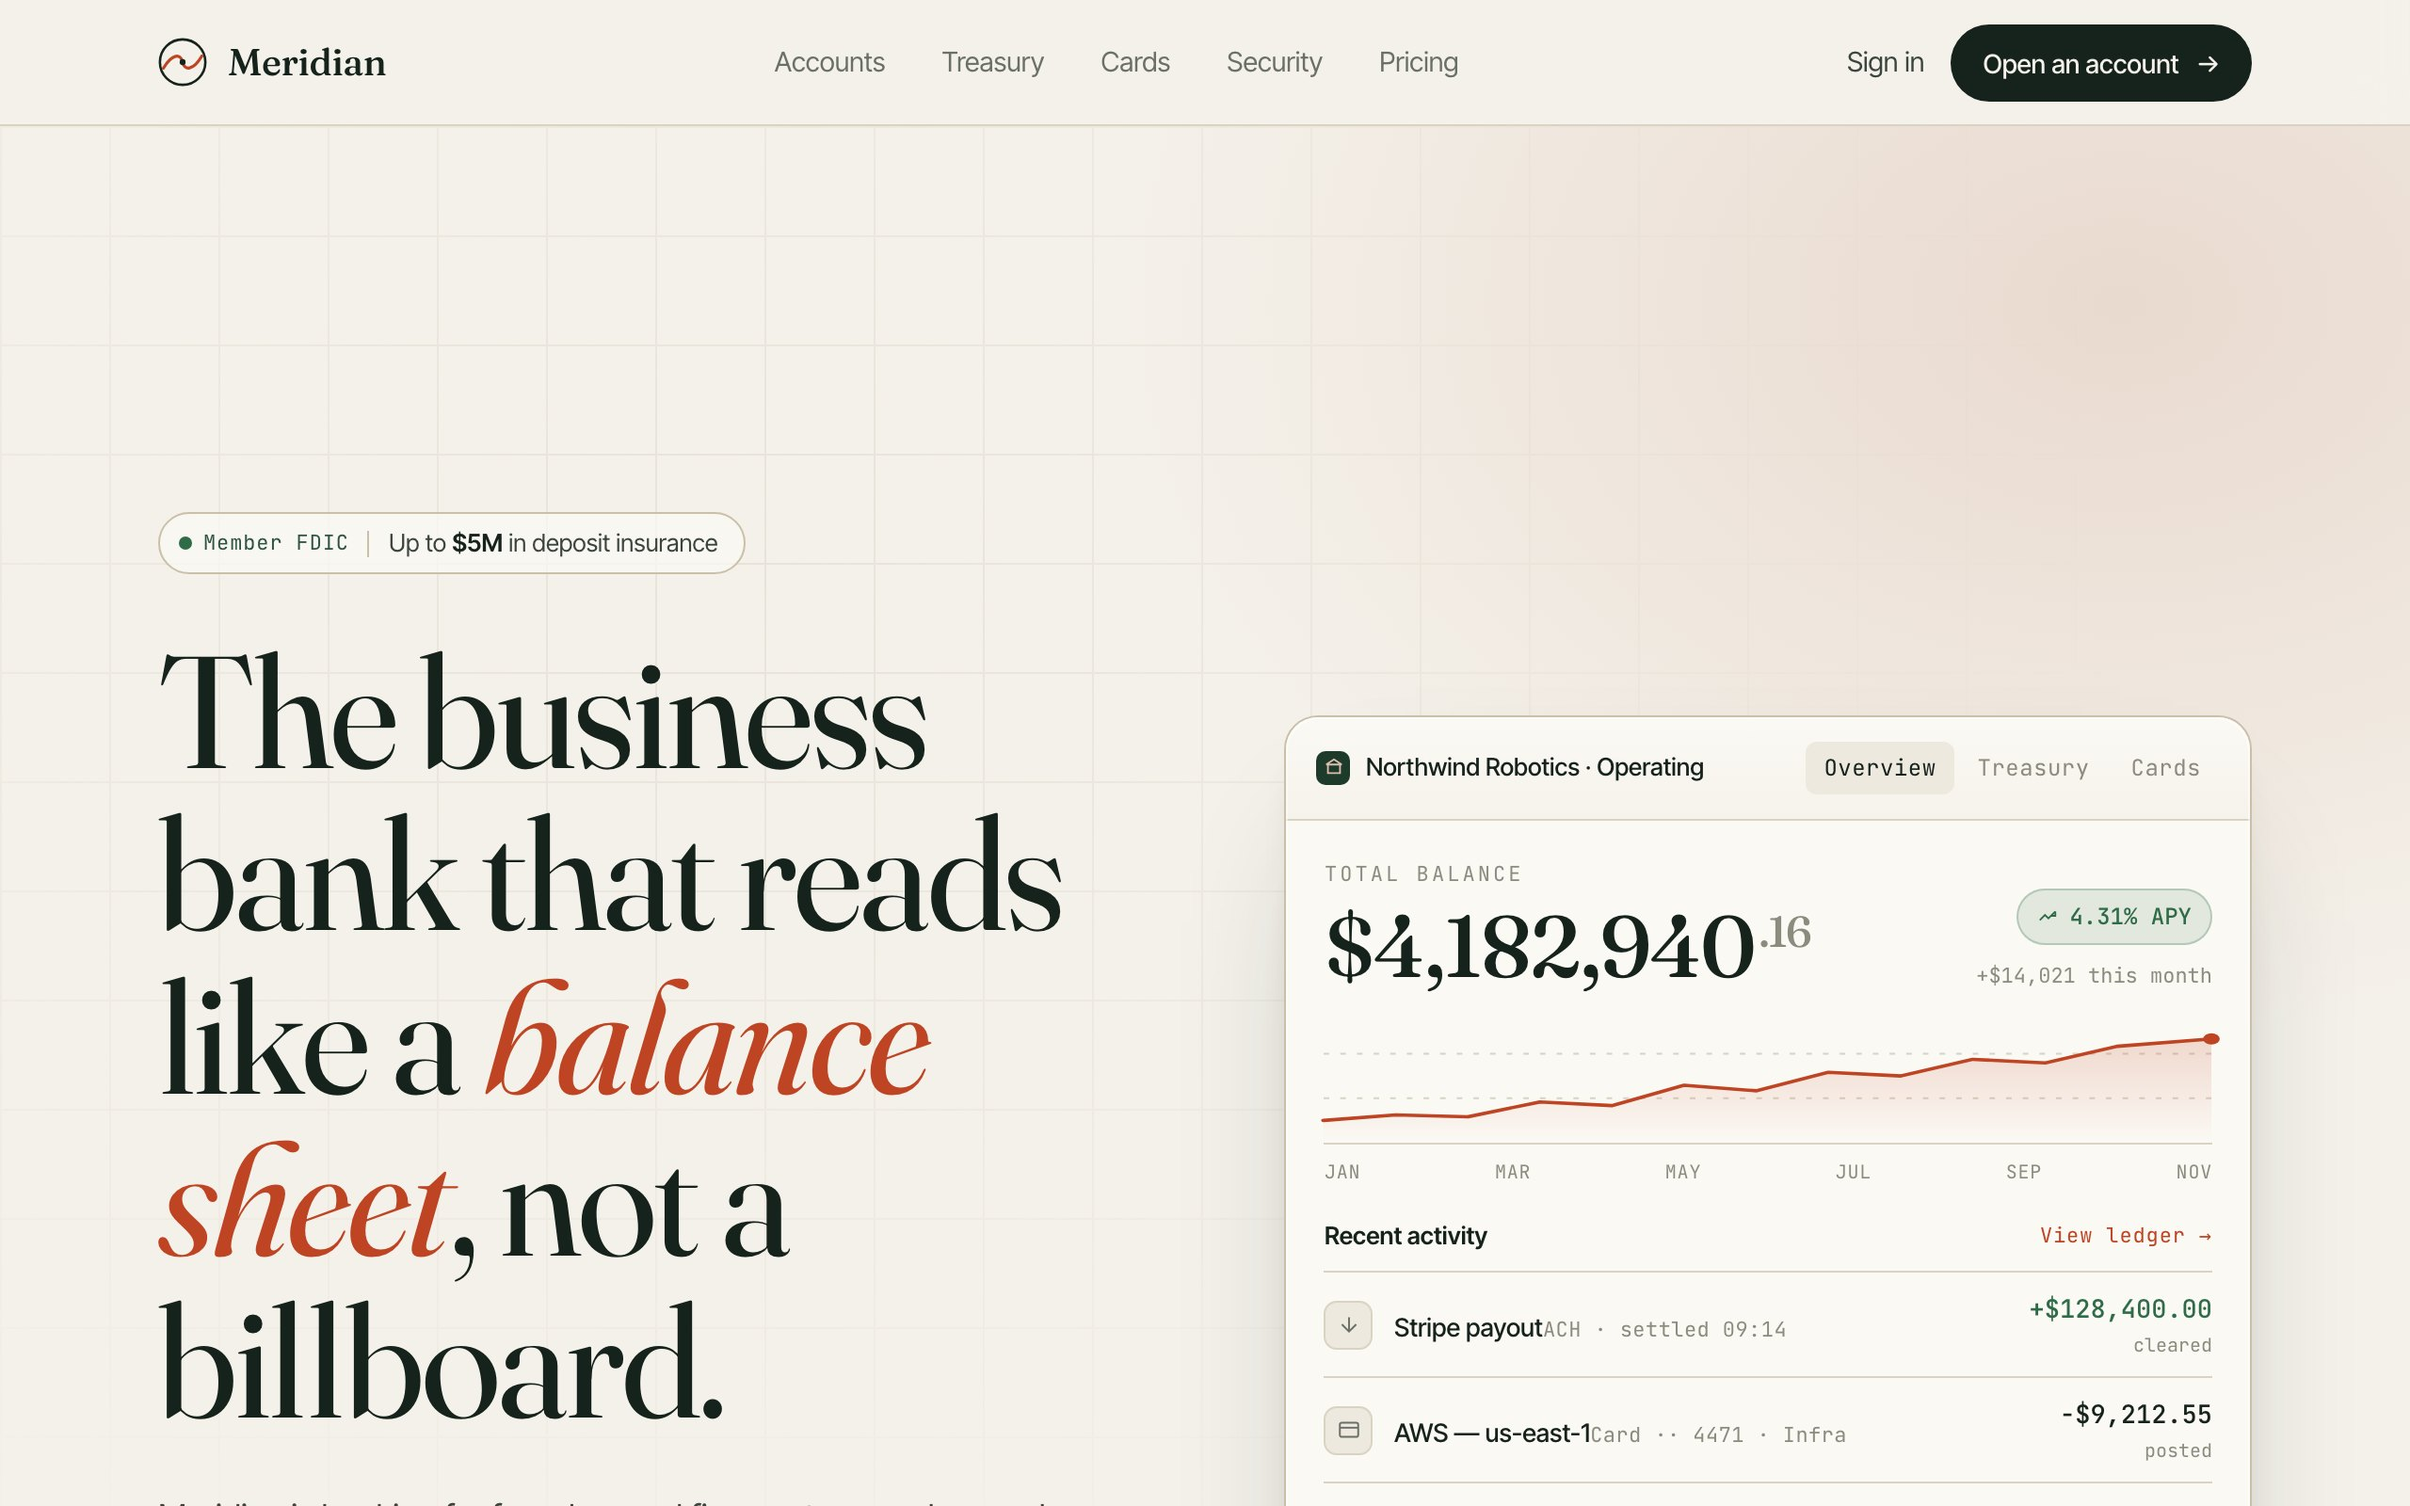
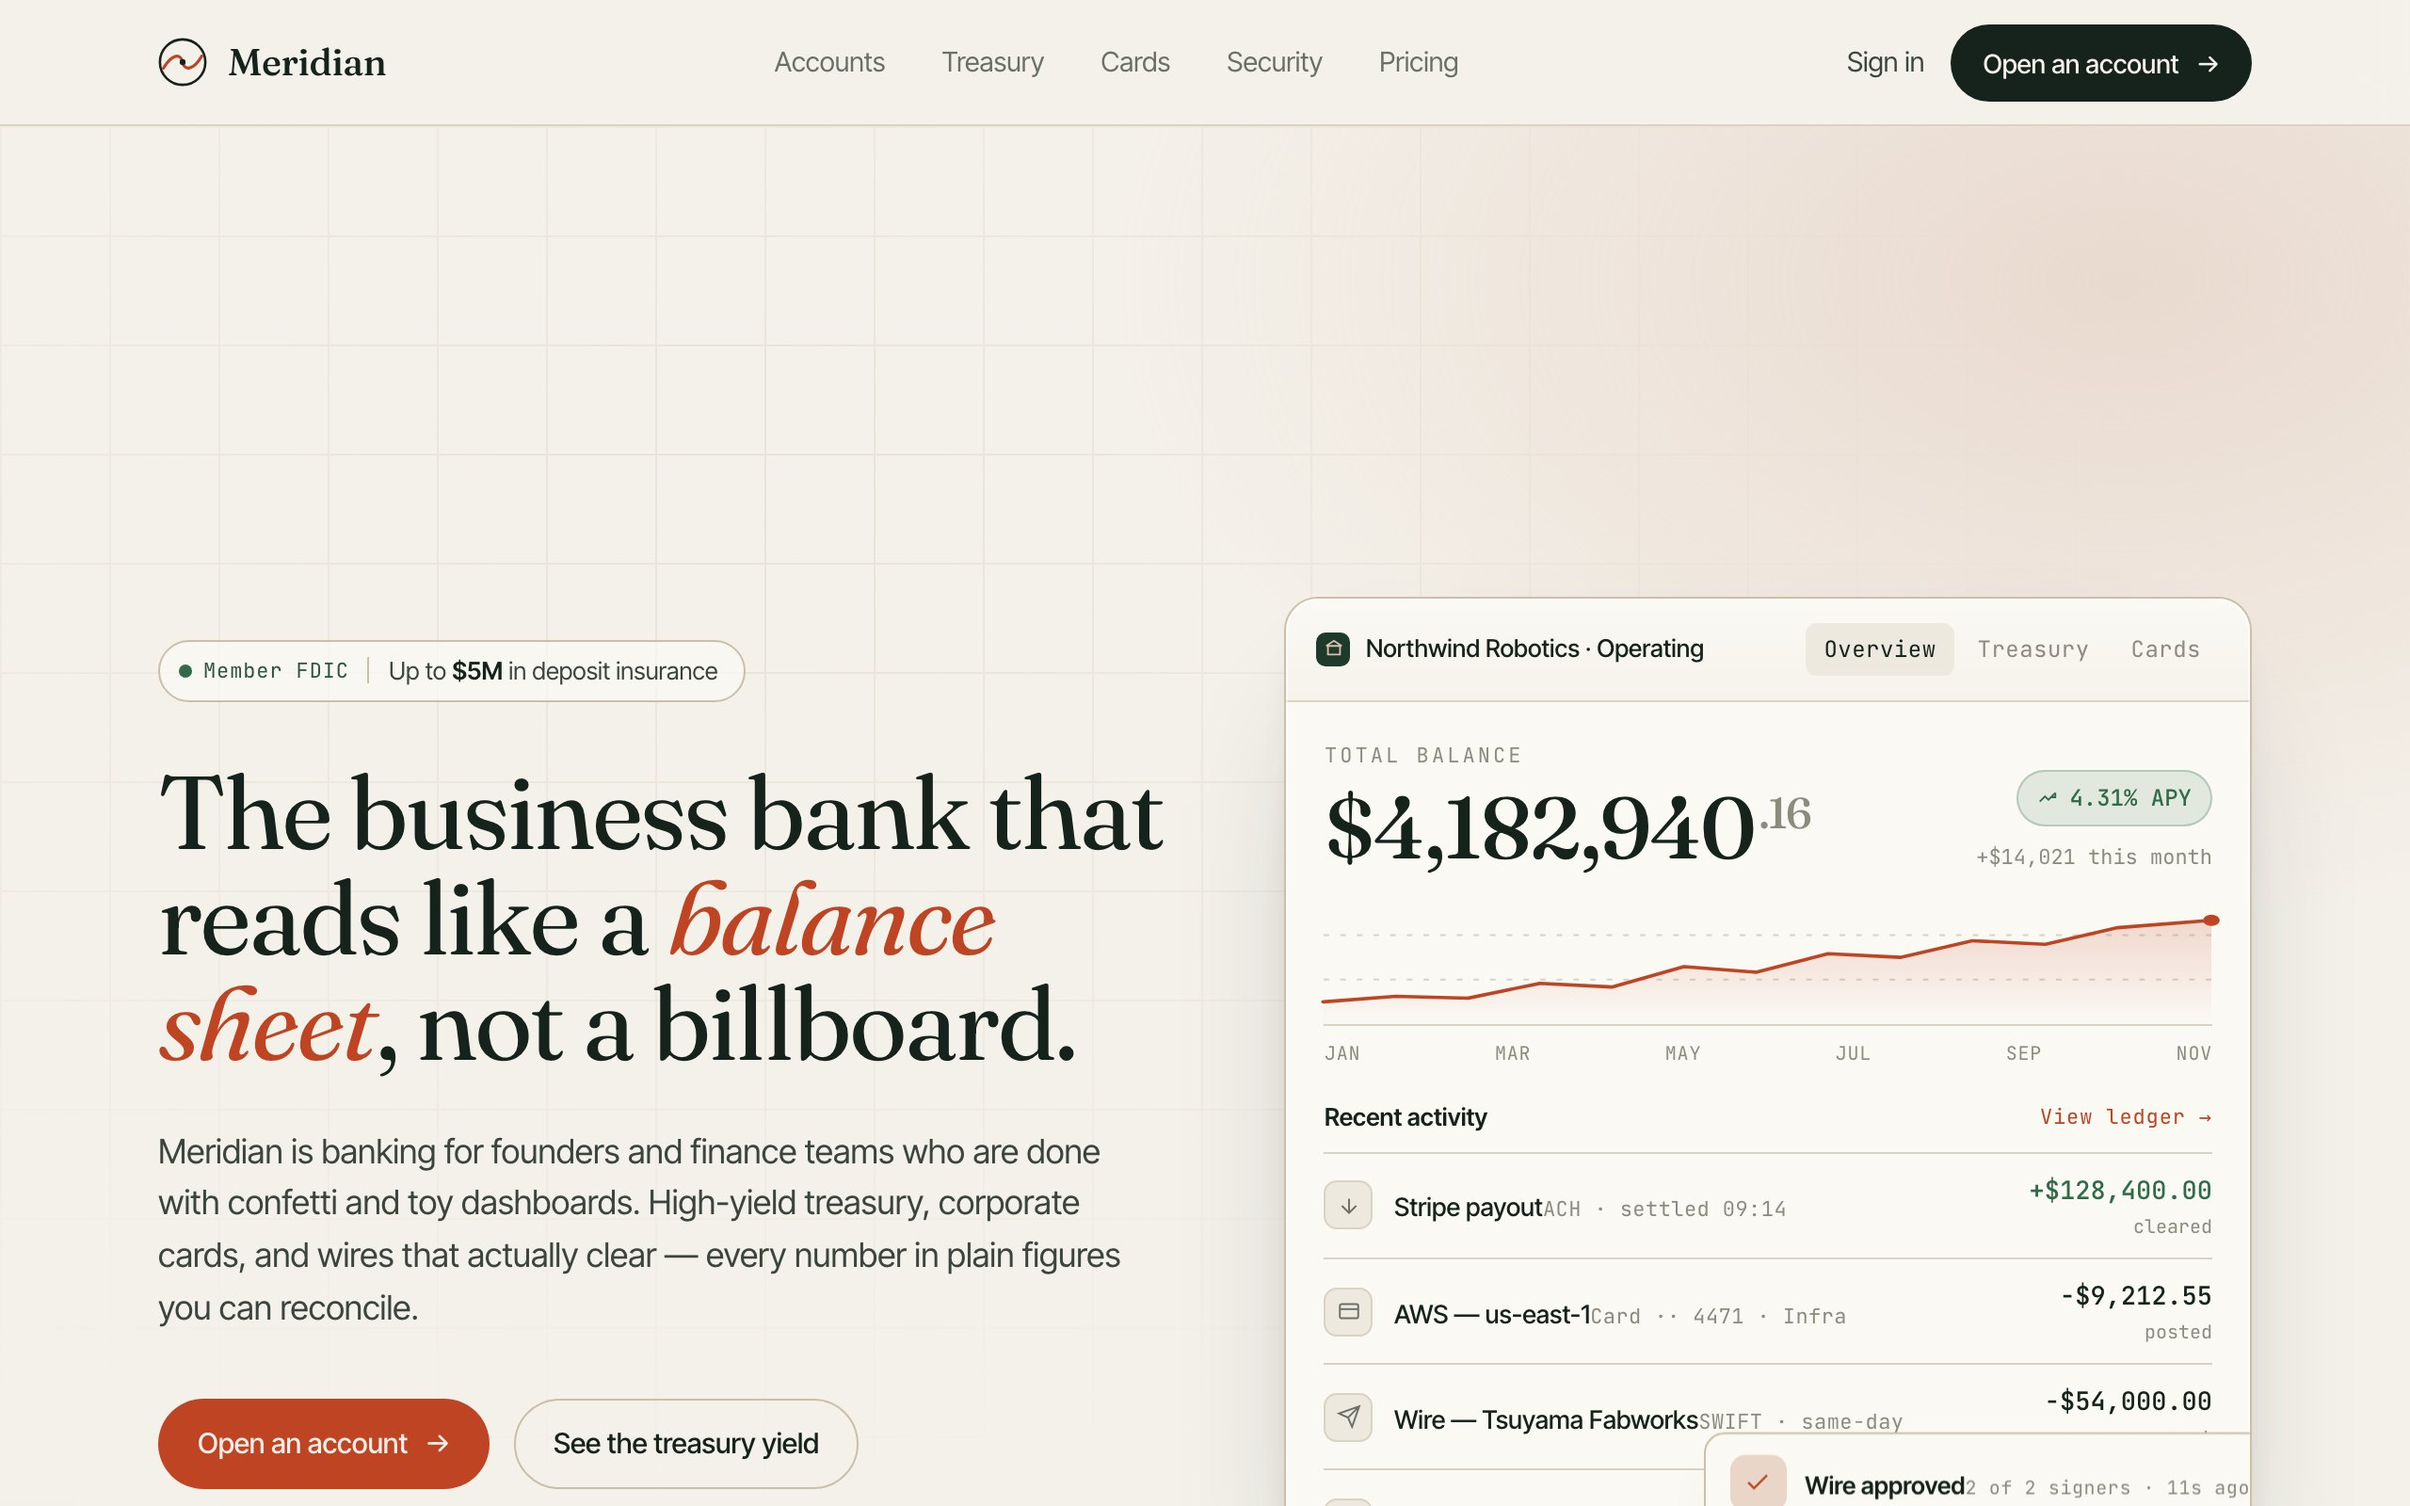
feat: bake hero-fits-viewport guidance into MCP + fix Meridian hero
MCP: add HERO_GUIDANCE to SERVER_INSTRUCTIONS + recommend() output so any
agent building with Inspo composes the hero to fit the first viewport
(~100svh / 1280x800) instead of overflowing it with oversized type.
Meridian: center the hero in 100svh and shrink the headline (was
clamp(...,88px) at 13ch = 5 cut-off lines) so the whole hero fits the
fold while keeping the design intact.

diff --git a/apps/mcp/src/tools.ts b/apps/mcp/src/tools.ts
@@ -70,6 +70,14 @@ import { searchScreens } from "./search.js";
 // study() was moved to @inspo/shared so the web playground can call
 // it without depending on the MCP-SDK side of @inspo/mcp.
 
+/** Guidance every Inspo consumer should honour when composing a page's
+ *  hero. Real production sites compose their first screen to the fold;
+ *  agents tend to overflow it with oversized type, so the hero (and its
+ *  thumbnail) reads as cut-off and unfinished. Surfaced in the server
+ *  instructions + recommend() so it reaches any agent building a page. */
+const HERO_GUIDANCE =
+  "Compose the hero to fit the FIRST VIEWPORT (~1280×800, i.e. min-height:100svh): the nav, eyebrow, headline, supporting line, primary CTA, and any hero visual/product mock must be visually COMPLETE above the fold — nothing important cut off. Size display type to land in 2–3 balanced lines within that height; never let an oversized wordmark or heading eat the viewport (the single most common failure). Lead with modest top spacing, not a tall empty gap. Study how the exemplars balance headline against visual inside their own first screen and match that restraint.";
+
 export function registerTools(server: McpServer) {
   /* ────────────── search_screens ────────────── */
   server.registerTool(
@@ -911,10 +919,11 @@ export function registerTools(server: McpServer) {
           exemplars: exemplarsFmt,
           referenceComponents: referencePicks,
           paletteSuggestion: palette,
+          heroGuidance: HERO_GUIDANCE,
           tip:
             referencePicks.length > 0
-              ? "Read the referenceComponents source(s) for the canonical structure that embodies this macrostructure. Study the inline exemplar thumbnails for palette + type + density choices specific to your brief."
-              : "No canonical reference matched the picked macrostructure. Study the inline exemplar thumbnails and write the page shape by hand.",
+              ? "Read the referenceComponents source(s) for the canonical structure that embodies this macrostructure. Study the inline exemplar thumbnails for palette + type + density choices specific to your brief. Then honour heroGuidance — compose the hero to fit the first viewport."
+              : "No canonical reference matched the picked macrostructure. Study the inline exemplar thumbnails and write the page shape by hand. Honour heroGuidance — compose the hero to fit the first viewport.",
         },
         exemplarsFmt.map((r) => r.thumb),
       );
@@ -967,4 +976,6 @@ export const SERVER_INSTRUCTIONS = [
   "If the user is following the Hallmark design skill, call",
   "`find_examples_for_macrostructure` at the macrostructure-pick step",
   "to get exemplars of e.g. 'Bento Grid' or 'Specimen'.",
+  "",
+  "Whenever you build a page, honour this hero rule: " + HERO_GUIDANCE,
 ].join(" ");

diff --git a/apps/web/public/examples/meridian-bank/index.html b/apps/web/public/examples/meridian-bank/index.html
@@ -141,8 +141,8 @@
     -webkit-mask-image:radial-gradient(80% 70% at 30% 20%, #000, transparent 75%);
     mask-image:radial-gradient(80% 70% at 30% 20%, #000, transparent 75%);
   }
-  .hero-inner{position:relative;z-index:1;display:grid;grid-template-columns:1.02fr 0.98fr;gap:clamp(36px,5vw,72px);align-items:center;padding-top:clamp(56px,7vw,92px);padding-bottom:clamp(64px,8vw,104px)}
-  @media (max-width:980px){.hero-inner{grid-template-columns:1fr;gap:44px;padding-bottom:64px}}
+  .hero-inner{position:relative;z-index:1;display:grid;grid-template-columns:1.02fr 0.98fr;gap:clamp(36px,5vw,72px);align-items:center;align-content:center;min-height:100svh;box-sizing:border-box;padding-top:clamp(44px,6vh,80px);padding-bottom:clamp(40px,5vh,72px)}
+  @media (max-width:980px){.hero-inner{grid-template-columns:1fr;gap:40px;min-height:0;padding-top:clamp(40px,8vw,72px);padding-bottom:64px}}
 
   .badge{display:inline-flex;align-items:center;gap:10px;padding:6px 14px 6px 10px;border:1px solid var(--line-2);background:color-mix(in srgb, var(--card) 70%, transparent);border-radius:999px;font-size:13px;color:var(--ink-soft);margin-bottom:30px}
   .badge .tick{display:inline-flex;align-items:center;gap:6px;font-family:var(--mono);font-size:11px;letter-spacing:0.04em;color:var(--moss-soft)}
@@ -150,7 +150,7 @@
   @keyframes pulse{0%{box-shadow:0 0 0 0 color-mix(in srgb,var(--good) 50%,transparent)}70%{box-shadow:0 0 0 7px transparent}100%{box-shadow:0 0 0 0 transparent}}
   .badge .div{width:1px;height:14px;background:var(--line-2)}
 
-  .hero h1{max-width:13ch}
+  .hero h1{max-width:16ch;font-size:clamp(36px,4.3vw,56px)}
   .hero .sub{margin-top:26px;max-width:50ch}
   .hero .ctas{margin-top:34px;display:flex;gap:13px;flex-wrap:wrap;align-items:center}
   .hero .fineprint{margin-top:22px;display:flex;align-items:center;gap:16px;flex-wrap:wrap;font-size:13px;color:var(--ink-mute)}
